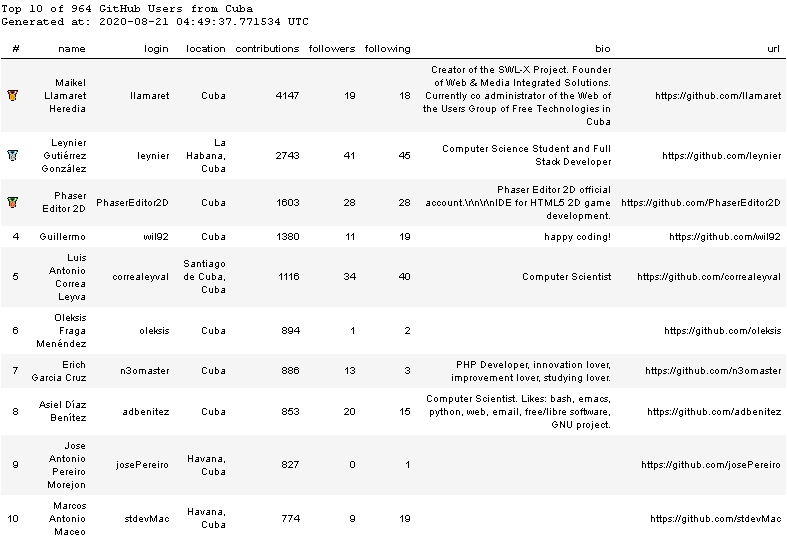
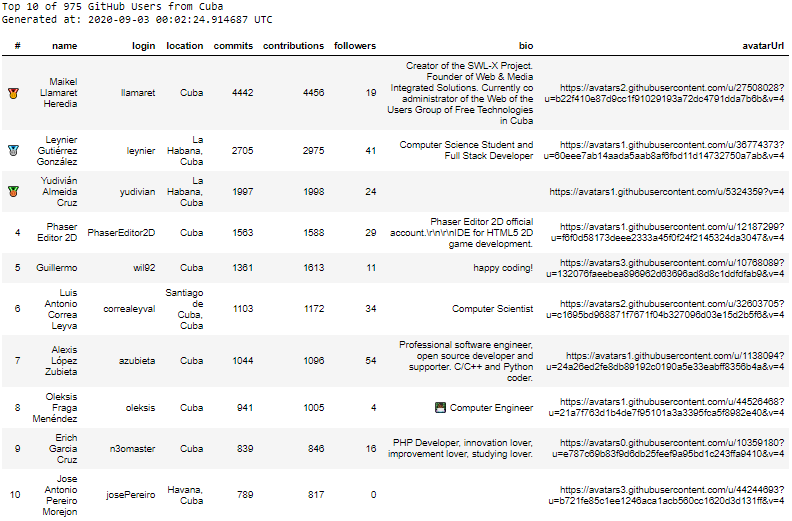
Check asyncio TimeoutError Exception Update outputs

diff --git a/contributions.html b/contributions.html
@@ -13149,17 +13149,17 @@ div#notebook {
 <span class="sd">                    login</span>
 <span class="sd">                    location</span>
 <span class="sd">                    bio</span>
-<span class="sd">                    url</span>
+<span class="sd">                    avatarUrl</span>
 <span class="sd">                    followers {</span>
 <span class="sd">                      totalCount</span>
 <span class="sd">                    }</span>
-<span class="sd">                    following {</span>
-<span class="sd">                      totalCount</span>
-<span class="sd">                    }</span>
 <span class="sd">                    contributionsCollection {</span>
+<span class="sd">                      contributionCalendar{</span>
+<span class="sd">                        totalContributions</span>
+<span class="sd">                      }</span>
 <span class="sd">                      totalCommitContributions</span>
 <span class="sd">                      totalPullRequestContributions</span>
-<span class="sd">                      totalPullRequestReviewContributions</span>
+<span class="sd">                      restrictedContributionsCount</span>
 <span class="sd">                    }</span>
 <span class="sd">                  }</span>
 <span class="sd">                }</span>
@@ -13194,7 +13194,10 @@ div#notebook {
             <span class="n">progress</span><span class="p">(</span><span class="n">pb</span><span class="p">)</span>
 
             <span class="k">await</span> <span class="n">asyncio</span><span class="o">.</span><span class="n">sleep</span><span class="p">(</span><span class="mi">1</span><span class="p">)</span>
-            <span class="n">result</span> <span class="o">=</span> <span class="k">await</span> <span class="n">session</span><span class="o">.</span><span class="n">execute</span><span class="p">(</span><span class="n">query</span><span class="p">,</span> <span class="n">variable_values</span><span class="o">=</span><span class="n">params</span><span class="p">)</span>
+            <span class="k">try</span><span class="p">:</span>
+                <span class="n">result</span> <span class="o">=</span> <span class="k">await</span> <span class="n">session</span><span class="o">.</span><span class="n">execute</span><span class="p">(</span><span class="n">query</span><span class="p">,</span> <span class="n">variable_values</span><span class="o">=</span><span class="n">params</span><span class="p">)</span>
+            <span class="k">except</span> <span class="n">asyncio</span><span class="o">.</span><span class="n">exceptions</span><span class="o">.</span><span class="n">TimeoutError</span><span class="p">:</span>
+                <span class="k">continue</span>
             <span class="n">result_users</span> <span class="o">+=</span> <span class="n">result</span><span class="o">.</span><span class="n">get</span><span class="p">(</span><span class="s2">&quot;search&quot;</span><span class="p">)</span><span class="o">.</span><span class="n">get</span><span class="p">(</span><span class="s2">&quot;nodes&quot;</span><span class="p">,</span> <span class="p">[])</span>
             <span class="n">pb</span><span class="o">.</span><span class="n">progress</span> <span class="o">=</span> <span class="nb">len</span><span class="p">(</span><span class="n">result_users</span><span class="p">)</span>
             <span class="n">progress</span><span class="p">(</span><span class="n">pb</span><span class="p">)</span>
@@ -13224,8 +13227,8 @@ div#notebook {
 
 <div class="output_subarea output_stream output_stdout output_text">
 <pre>Getting users...
-[============================================================] 968/968
-Total GitHub Users from Cuba: 968
+[============================================================] 975/975
+Total GitHub Users from Cuba: 975
 </pre>
 </div>
 </div>
@@ -13242,25 +13245,31 @@ Total GitHub Users from Cuba: 968
 <div class=" highlight hl-ipython3"><pre><span></span><span class="k">for</span> <span class="n">user</span> <span class="ow">in</span> <span class="n">users</span><span class="p">:</span>
     <span class="k">if</span> <span class="n">user</span><span class="p">:</span>
         <span class="n">user</span><span class="p">[</span><span class="s2">&quot;followers&quot;</span><span class="p">]</span> <span class="o">=</span> <span class="n">user</span><span class="o">.</span><span class="n">get</span><span class="p">(</span><span class="s2">&quot;followers&quot;</span><span class="p">)</span><span class="o">.</span><span class="n">get</span><span class="p">(</span><span class="s2">&quot;totalCount&quot;</span><span class="p">,</span> <span class="mi">0</span><span class="p">)</span>
-        <span class="n">user</span><span class="p">[</span><span class="s2">&quot;following&quot;</span><span class="p">]</span> <span class="o">=</span> <span class="n">user</span><span class="o">.</span><span class="n">get</span><span class="p">(</span><span class="s2">&quot;following&quot;</span><span class="p">)</span><span class="o">.</span><span class="n">get</span><span class="p">(</span><span class="s2">&quot;totalCount&quot;</span><span class="p">,</span> <span class="mi">0</span><span class="p">)</span>
-        <span class="n">user</span><span class="p">[</span><span class="s2">&quot;contributions&quot;</span><span class="p">]</span> <span class="o">=</span> <span class="p">(</span>
-            <span class="n">user</span><span class="o">.</span><span class="n">get</span><span class="p">(</span><span class="s2">&quot;contributionsCollection&quot;</span><span class="p">)</span><span class="o">.</span><span class="n">get</span><span class="p">(</span><span class="s2">&quot;totalCommitContributions&quot;</span><span class="p">,</span> <span class="mi">0</span><span class="p">)</span>
-            <span class="o">+</span> <span class="n">user</span><span class="o">.</span><span class="n">get</span><span class="p">(</span><span class="s2">&quot;contributionsCollection&quot;</span><span class="p">)</span><span class="o">.</span><span class="n">get</span><span class="p">(</span>
-                <span class="s2">&quot;totalPullRequestContributions&quot;</span><span class="p">,</span> <span class="mi">0</span>
-            <span class="p">)</span>
-            <span class="o">+</span> <span class="n">user</span><span class="o">.</span><span class="n">get</span><span class="p">(</span><span class="s2">&quot;contributionsCollection&quot;</span><span class="p">)</span><span class="o">.</span><span class="n">get</span><span class="p">(</span>
-                <span class="s2">&quot;totalPullRequestReviewContributions&quot;</span><span class="p">,</span> <span class="mi">0</span>
-            <span class="p">)</span>
+        <span class="n">user</span><span class="p">[</span><span class="s2">&quot;contributions&quot;</span><span class="p">]</span> <span class="o">=</span> <span class="n">user</span><span class="o">.</span><span class="n">get</span><span class="p">(</span><span class="s2">&quot;contributionsCollection&quot;</span><span class="p">)</span><span class="o">.</span><span class="n">get</span><span class="p">(</span>
+            <span class="s2">&quot;contributionCalendar&quot;</span>
+        <span class="p">)</span><span class="o">.</span><span class="n">get</span><span class="p">(</span><span class="s2">&quot;totalContributions&quot;</span><span class="p">,</span> <span class="mi">0</span><span class="p">)</span> <span class="o">-</span> <span class="n">user</span><span class="o">.</span><span class="n">get</span><span class="p">(</span>
+            <span class="s2">&quot;contributionsCollection&quot;</span>
+        <span class="p">)</span><span class="o">.</span><span class="n">get</span><span class="p">(</span>
+            <span class="s2">&quot;restrictedContributionsCount&quot;</span><span class="p">,</span> <span class="mi">0</span>
+        <span class="p">)</span>
+        <span class="n">user</span><span class="p">[</span><span class="s2">&quot;commits&quot;</span><span class="p">]</span> <span class="o">=</span> <span class="n">user</span><span class="o">.</span><span class="n">get</span><span class="p">(</span><span class="s2">&quot;contributionsCollection&quot;</span><span class="p">)</span><span class="o">.</span><span class="n">get</span><span class="p">(</span>
+            <span class="s2">&quot;totalCommitContributions&quot;</span><span class="p">,</span> <span class="mi">0</span>
+        <span class="p">)</span> <span class="o">+</span> <span class="n">user</span><span class="o">.</span><span class="n">get</span><span class="p">(</span><span class="s2">&quot;contributionsCollection&quot;</span><span class="p">)</span><span class="o">.</span><span class="n">get</span><span class="p">(</span>
+            <span class="s2">&quot;totalPullRequestContributions&quot;</span><span class="p">,</span> <span class="mi">0</span>
         <span class="p">)</span>
         <span class="k">del</span> <span class="n">user</span><span class="p">[</span><span class="s2">&quot;contributionsCollection&quot;</span><span class="p">]</span>
 
 <span class="n">df</span> <span class="o">=</span> <span class="n">pd</span><span class="o">.</span><span class="n">DataFrame</span><span class="p">(</span><span class="n">users</span><span class="p">)</span>
 <span class="n">df</span><span class="o">.</span><span class="n">dropna</span><span class="p">(</span><span class="n">how</span><span class="o">=</span><span class="s1">&#39;all&#39;</span><span class="p">,</span> <span class="n">inplace</span><span class="o">=</span><span class="kc">True</span><span class="p">)</span>
 <span class="c1"># df = df.reset_index(drop=True)</span>
-<span class="n">df</span> <span class="o">=</span> <span class="n">df</span><span class="o">.</span><span class="n">sort_values</span><span class="p">(</span><span class="n">by</span><span class="o">=</span><span class="s2">&quot;contributions&quot;</span><span class="p">,</span> <span class="n">ascending</span><span class="o">=</span><span class="kc">False</span><span class="p">)</span>
+<span class="n">df</span> <span class="o">=</span> <span class="n">df</span><span class="o">.</span><span class="n">sort_values</span><span class="p">(</span><span class="n">by</span><span class="o">=</span><span class="s2">&quot;commits&quot;</span><span class="p">,</span> <span class="n">ascending</span><span class="o">=</span><span class="kc">False</span><span class="p">)</span>
 
 <span class="c1"># Top Ten Cuba</span>
-<span class="n">new_dtypes</span> <span class="o">=</span> <span class="p">{</span><span class="s2">&quot;followers&quot;</span><span class="p">:</span> <span class="n">np</span><span class="o">.</span><span class="n">int64</span><span class="p">,</span> <span class="s2">&quot;following&quot;</span><span class="p">:</span> <span class="n">np</span><span class="o">.</span><span class="n">int64</span><span class="p">,</span> <span class="s2">&quot;contributions&quot;</span><span class="p">:</span> <span class="n">np</span><span class="o">.</span><span class="n">int64</span><span class="p">}</span>
+<span class="n">new_dtypes</span> <span class="o">=</span> <span class="p">{</span>
+    <span class="s2">&quot;followers&quot;</span><span class="p">:</span> <span class="n">np</span><span class="o">.</span><span class="n">int64</span><span class="p">,</span>
+    <span class="s2">&quot;contributions&quot;</span><span class="p">:</span> <span class="n">np</span><span class="o">.</span><span class="n">int64</span><span class="p">,</span>
+    <span class="s2">&quot;commits&quot;</span><span class="p">:</span> <span class="n">np</span><span class="o">.</span><span class="n">int64</span>
+<span class="p">}</span>
 <span class="n">position</span> <span class="o">=</span> <span class="p">[</span><span class="s2">&quot;</span><span class="se">\U0001F947</span><span class="s2">&quot;</span><span class="p">,</span> <span class="s2">&quot;</span><span class="se">\U0001F948</span><span class="s2">&quot;</span><span class="p">,</span> <span class="s2">&quot;</span><span class="se">\U0001F949</span><span class="s2">&quot;</span><span class="p">]</span> <span class="o">+</span> <span class="nb">list</span><span class="p">(</span><span class="nb">range</span><span class="p">(</span><span class="mi">4</span><span class="p">,</span> <span class="n">TOP</span> <span class="o">+</span> <span class="mi">1</span><span class="p">))</span>
 
 <span class="n">df_top_ten</span> <span class="o">=</span> <span class="n">df</span><span class="p">[:</span><span class="n">TOP</span><span class="p">]</span>
@@ -13273,11 +13282,11 @@ Total GitHub Users from Cuba: 968
         <span class="s2">&quot;name&quot;</span><span class="p">,</span>
         <span class="s2">&quot;login&quot;</span><span class="p">,</span>
         <span class="s2">&quot;location&quot;</span><span class="p">,</span>
+        <span class="s2">&quot;commits&quot;</span><span class="p">,</span>
         <span class="s2">&quot;contributions&quot;</span><span class="p">,</span>
         <span class="s2">&quot;followers&quot;</span><span class="p">,</span>
-        <span class="s2">&quot;following&quot;</span><span class="p">,</span>
         <span class="s2">&quot;bio&quot;</span><span class="p">,</span>
-        <span class="s2">&quot;url&quot;</span><span class="p">,</span>
+        <span class="s2">&quot;avatarUrl&quot;</span><span class="p">,</span>
     <span class="p">]</span>
 <span class="p">]</span>
 <span class="n">df_top_ten</span><span class="o">.</span><span class="n">insert</span><span class="p">(</span><span class="mi">0</span><span class="p">,</span> <span class="s2">&quot;#&quot;</span><span class="p">,</span> <span class="n">position</span><span class="p">)</span>
@@ -13300,8 +13309,8 @@ Total GitHub Users from Cuba: 968
 
 
 <div class="output_subarea output_stream output_stdout output_text">
-<pre>Top 10 of 968 GitHub Users from Cuba
-Generated at: 2020-08-26 22:08:49.531982 UTC
+<pre>Top 10 of 975 GitHub Users from Cuba
+Generated at: 2020-09-03 00:02:24.914687 UTC
 </pre>
 </div>
 </div>
@@ -13320,11 +13329,11 @@ Generated at: 2020-08-26 22:08:49.531982 UTC
       <th>name</th>
       <th>login</th>
       <th>location</th>
+      <th>commits</th>
       <th>contributions</th>
       <th>followers</th>
-      <th>following</th>
       <th>bio</th>
-      <th>url</th>
+      <th>avatarUrl</th>
     </tr>
   </thead>
   <tbody>
@@ -13333,110 +13342,110 @@ Generated at: 2020-08-26 22:08:49.531982 UTC
       <td>Maikel Llamaret Heredia</td>
       <td>llamaret</td>
       <td>Cuba</td>
-      <td>4284</td>
+      <td>4442</td>
+      <td>4456</td>
       <td>19</td>
-      <td>18</td>
       <td>Creator of the SWL-X Project. Founder of Web &amp; Media Integrated Solutions. Currently co administrator of the Web of the Users Group of Free Technologies in Cuba</td>
-      <td>https://github.com/llamaret</td>
+      <td>https://avatars2.githubusercontent.com/u/27508028?u=b22f410e87d9cc1f91029193a72dc4791dda7b6b&amp;v=4</td>
     </tr>
     <tr>
       <td>🥈</td>
       <td>Leynier Gutiérrez González</td>
       <td>leynier</td>
       <td>La Habana, Cuba</td>
-      <td>2761</td>
+      <td>2705</td>
+      <td>2975</td>
       <td>41</td>
-      <td>45</td>
       <td>Computer Science Student and Full Stack Developer</td>
-      <td>https://github.com/leynier</td>
+      <td>https://avatars1.githubusercontent.com/u/36774373?u=60eee7ab14aada5aab8af6fbd11d14732750a7ab&amp;v=4</td>
     </tr>
     <tr>
       <td>🥉</td>
       <td>Yudivián Almeida Cruz</td>
       <td>yudivian</td>
       <td>La Habana, Cuba</td>
-      <td>1936</td>
+      <td>1997</td>
+      <td>1998</td>
       <td>24</td>
-      <td>2</td>
       <td></td>
-      <td>https://github.com/yudivian</td>
+      <td>https://avatars1.githubusercontent.com/u/5324359?v=4</td>
     </tr>
     <tr>
       <td>4</td>
       <td>Phaser Editor 2D</td>
       <td>PhaserEditor2D</td>
       <td>Cuba</td>
-      <td>1591</td>
+      <td>1563</td>
+      <td>1588</td>
       <td>29</td>
-      <td>28</td>
       <td>Phaser Editor 2D official account.\r\n\r\nIDE for HTML5 2D game development.</td>
-      <td>https://github.com/PhaserEditor2D</td>
+      <td>https://avatars1.githubusercontent.com/u/12187299?u=f6f0d58173deee2333a45f0f24f2145324da3047&amp;v=4</td>
     </tr>
     <tr>
       <td>5</td>
       <td>Guillermo</td>
       <td>wil92</td>
       <td>Cuba</td>
-      <td>1398</td>
+      <td>1361</td>
+      <td>1613</td>
       <td>11</td>
-      <td>19</td>
       <td>happy coding!</td>
-      <td>https://github.com/wil92</td>
+      <td>https://avatars3.githubusercontent.com/u/10768089?u=132076faeebea896962d63696ad8d8c1ddfdfab9&amp;v=4</td>
     </tr>
     <tr>
       <td>6</td>
       <td>Luis Antonio Correa Leyva</td>
       <td>correaleyval</td>
       <td>Santiago de Cuba, Cuba</td>
-      <td>1104</td>
+      <td>1103</td>
+      <td>1172</td>
       <td>34</td>
-      <td>40</td>
       <td>Computer Scientist</td>
-      <td>https://github.com/correaleyval</td>
+      <td>https://avatars2.githubusercontent.com/u/32603705?u=c1695bd968871f7671f04b327096d03e15d2b5f6&amp;v=4</td>
     </tr>
     <tr>
       <td>7</td>
-      <td>Oleksis Fraga Menéndez</td>
-      <td>oleksis</td>
+      <td>Alexis López Zubieta</td>
+      <td>azubieta</td>
       <td>Cuba</td>
-      <td>914</td>
-      <td>1</td>
-      <td>2</td>
-      <td>👨🏾💻 Computer Engineer</td>
-      <td>https://github.com/oleksis</td>
+      <td>1044</td>
+      <td>1096</td>
+      <td>54</td>
+      <td>Professional software engineer, open source developer and supporter. C/C++ and Python coder.</td>
+      <td>https://avatars1.githubusercontent.com/u/1138094?u=24a26ed2fe8db89192c0190a5e33eabff8356b4a&amp;v=4</td>
     </tr>
     <tr>
       <td>8</td>
-      <td>Erich Garcia Cruz</td>
-      <td>n3omaster</td>
+      <td>Oleksis Fraga Menéndez</td>
+      <td>oleksis</td>
       <td>Cuba</td>
-      <td>861</td>
-      <td>15</td>
-      <td>3</td>
-      <td>PHP Developer, innovation lover, improvement lover, studying lover.</td>
-      <td>https://github.com/n3omaster</td>
+      <td>941</td>
+      <td>1005</td>
+      <td>4</td>
+      <td>👨🏾💻 Computer Engineer</td>
+      <td>https://avatars1.githubusercontent.com/u/44526468?u=21a7f763d1b4de7f95101a3a3395fca5f8982e40&amp;v=4</td>
     </tr>
     <tr>
       <td>9</td>
-      <td>Asiel Díaz Benítez</td>
-      <td>adbenitez</td>
+      <td>Erich Garcia Cruz</td>
+      <td>n3omaster</td>
       <td>Cuba</td>
-      <td>804</td>
-      <td>20</td>
-      <td>15</td>
-      <td>Computer Scientist. Likes: bash, emacs, python, web, email, free/libre software, GNU project.</td>
-      <td>https://github.com/adbenitez</td>
+      <td>839</td>
+      <td>846</td>
+      <td>16</td>
+      <td>PHP Developer, innovation lover, improvement lover, studying lover.</td>
+      <td>https://avatars0.githubusercontent.com/u/10359180?u=e787c69b83f9d6db25feef9a95bd1c243ffa9410&amp;v=4</td>
     </tr>
     <tr>
       <td>10</td>
       <td>Jose Antonio Pereiro Morejon</td>
       <td>josePereiro</td>
       <td>Havana, Cuba</td>
-      <td>793</td>
+      <td>789</td>
+      <td>817</td>
       <td>0</td>
-      <td>1</td>
       <td></td>
-      <td>https://github.com/josePereiro</td>
+      <td>https://avatars3.githubusercontent.com/u/44244693?u=b721fe85c1ee1246aca1acb560cc1620d3d131ff&amp;v=4</td>
     </tr>
   </tbody>
 </table>

diff --git a/table_cuba_contributions.html b/table_cuba_contributions.html
@@ -18,8 +18,8 @@
       <td>Maikel Llamaret Heredia</td>
       <td>llamaret</td>
       <td>Cuba</td>
-      <td>4400</td>
-      <td>4414</td>
+      <td>4442</td>
+      <td>4456</td>
       <td>19</td>
       <td>Creator of the SWL-X Project. Founder of Web &amp; Media Integrated Solutions. Currently co administrator of the Web of the Users Group of Free Technologies in Cuba</td>
       <td>https://avatars2.githubusercontent.com/u/27508028?u=b22f410e87d9cc1f91029193a72dc4791dda7b6b&amp;v=4</td>
@@ -29,8 +29,8 @@
       <td>Leynier Gutiérrez González</td>
       <td>leynier</td>
       <td>La Habana, Cuba</td>
-      <td>2700</td>
-      <td>2970</td>
+      <td>2705</td>
+      <td>2975</td>
       <td>41</td>
       <td>Computer Science Student and Full Stack Developer</td>
       <td>https://avatars1.githubusercontent.com/u/36774373?u=60eee7ab14aada5aab8af6fbd11d14732750a7ab&amp;v=4</td>
@@ -40,8 +40,8 @@
       <td>Yudivián Almeida Cruz</td>
       <td>yudivian</td>
       <td>La Habana, Cuba</td>
-      <td>1977</td>
-      <td>1978</td>
+      <td>1997</td>
+      <td>1998</td>
       <td>24</td>
       <td></td>
       <td>https://avatars1.githubusercontent.com/u/5324359?v=4</td>
@@ -84,9 +84,9 @@
       <td>Alexis López Zubieta</td>
       <td>azubieta</td>
       <td>Cuba</td>
-      <td>1039</td>
-      <td>1091</td>
-      <td>53</td>
+      <td>1044</td>
+      <td>1096</td>
+      <td>54</td>
       <td>Professional software engineer, open source developer and supporter. C/C++ and Python coder.</td>
       <td>https://avatars1.githubusercontent.com/u/1138094?u=24a26ed2fe8db89192c0190a5e33eabff8356b4a&amp;v=4</td>
     </tr>
@@ -95,8 +95,8 @@
       <td>Oleksis Fraga Menéndez</td>
       <td>oleksis</td>
       <td>Cuba</td>
-      <td>935</td>
-      <td>999</td>
+      <td>941</td>
+      <td>1005</td>
       <td>4</td>
       <td>👨🏾💻 Computer Engineer</td>
       <td>https://avatars1.githubusercontent.com/u/44526468?u=21a7f763d1b4de7f95101a3a3395fca5f8982e40&amp;v=4</td>

diff --git a/contributions.py b/contributions.py
@@ -103,7 +103,10 @@ async def main():
             progress(len(result_users) * 100 / result_count)
 
             await asyncio.sleep(1)
-            result = await session.execute(query, variable_values=params)
+            try:
+                result = await session.execute(query, variable_values=params)
+            except asyncio.exceptions.TimeoutError:
+                continue
             result_users += result.get("search").get("nodes", [])
             result_next = result.get("search").get("pageInfo").get("hasNextPage", False)
             progress(len(result_users) * 100 / result_count)
